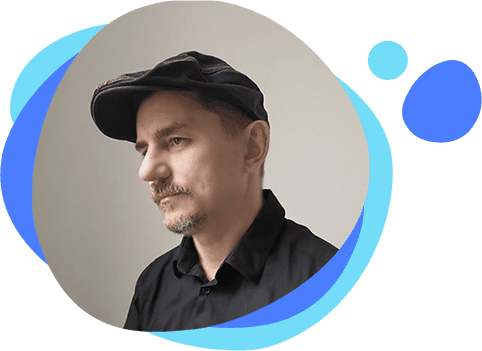
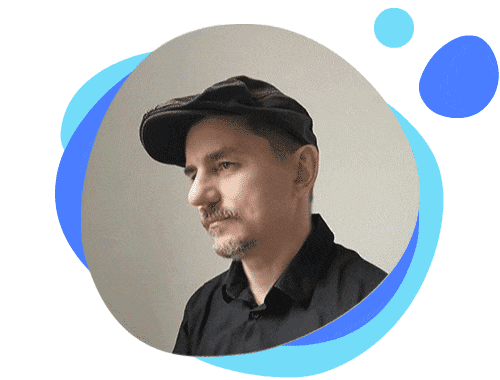
last fix with about gif - change png to gif when the last is loaded. Fixed a few styles

diff --git a/wp-content/themes/z-design/js/fixes.js b/wp-content/themes/z-design/js/fixes.js
@@ -1,8 +1,6 @@
 var aboutMenuItem = document.querySelector('[data-modal="about"]');
 var img = document.querySelector('#change_to_gif_js');
 var imgAboutTemplate = document.querySelector('#change_to_gif_js_about_template');
-var gifLoaderModal = document.querySelector('.gif_block__loader--modal')
-var gifLoader = document.querySelector('.gif_block__loader--template')
 
 var gifSource = '/wp-content/themes/z-design/img/about/about.gif';
 
@@ -12,7 +10,6 @@ if (imgAboutTemplate) {
         var gif = new Image();
         gif.src = gifSource;
         gif.onload = function() {
-            gifLoader.style.display = 'none';
             imgAboutTemplate.style.display = 'none';
             block.insertAdjacentElement('beforeend', gif)
         }
@@ -24,7 +21,6 @@ if (imgAboutTemplate) {
         var gif = new Image();
         gif.src = gifSource;
         gif.onload = function() {
-            gifLoaderModal.style.display = 'none';
             img.style.display = 'none';
             img.dataset.gif = true
             block.insertAdjacentElement('beforeend', gif)

diff --git a/wp-content/themes/z-design/rtl.css b/wp-content/themes/z-design/rtl.css
@@ -54,7 +54,7 @@ https://codex.wordpress.org/Right-to-Left_Language_Support
 
 @media screen and (max-width: 576px) {
 	.menu__link {
-		font-size: 1.5em;
+		font-size: 1.725em;
 	}
 }
 
@@ -79,7 +79,7 @@ https://codex.wordpress.org/Right-to-Left_Language_Support
 .about__buttons {
 	direction: rtl;    
 }
-.button__text {
+.about__buttons .button__text {
 	font-family: 'FB Reforma Medium';
 	font-size: 1.125em;
 }
@@ -93,6 +93,11 @@ https://codex.wordpress.org/Right-to-Left_Language_Support
 }
 .order_here a {
 	background: url(img/blog/order_here_he.png) center/contain no-repeat;
+}
+@media (max-width: 550px) {
+	.about__buttons .button {
+		padding: .75em .75em .75em 1em;
+	}
 }
 @media (max-width: 500px) {
 	.about__buttons .button__container {
@@ -146,7 +151,9 @@ https://codex.wordpress.org/Right-to-Left_Language_Support
 form.wpcf7-form {
     direction: rtl;
 }
-
+.contact__form button {
+	font-size: 1.65em;
+}
 .contact__form button span {
 	background: url(img/svg/form_arrow_he.svg) center/contain no-repeat;
 	right: auto;

diff --git a/wp-content/themes/z-design/style.css b/wp-content/themes/z-design/style.css
@@ -2057,7 +2057,8 @@ h3 {
     -webkit-box-align: center;
     align-items: center;
     margin: 0 .5rem .75rem;
-    position: relative
+    position: relative;
+    -webkit-tap-highlight-color: transparent;
 }
 
 .button:hover .button__arrow {
@@ -4873,7 +4874,7 @@ img[lazy=loading] {
         width: 95%
     }
     .menu__link {
-        font-size: 1.125em
+        font-size: 1.285em;
     }
     .nav_works__item {
         padding: .4em .6em;

diff --git a/wp-content/themes/z-design/header.php b/wp-content/themes/z-design/header.php
@@ -127,8 +127,7 @@
 
                     <div class="modal__content modal__content--about">
                         <div class="gif_block gif_block--modal">
-                            <img class="gif_block__loader gif_block__loader--modal" src="<?php bloginfo('template_directory') ?>/img/ajax-loader.gif" alt="">
-                            <img id="change_to_gif_js" src="<?php bloginfo('template_directory') ?>/img/about/about.png" class="about__image loading" alt="">
+                            <img id="change_to_gif_js" src="<?php bloginfo('template_directory') ?>/img/about/about.png" class="about__image" alt="">
                         </div>                        
                         <div class="about__content">
                             <?php echo get_post_field('post_content', 11); ?>

diff --git a/wp-content/themes/z-design/page-about.php b/wp-content/themes/z-design/page-about.php
@@ -13,8 +13,7 @@ $currentLang = wpm_get_language();
         </div>
         <div class="about__body">
             <div class="gif_block gif_block--template">
-                <img class="gif_block__loader gif_block__loader--template" src="<?php bloginfo('template_directory') ?>/img/ajax-loader.gif" alt="">
-                <img id="change_to_gif_js_about_template" src="<?php bloginfo('template_directory') ?>/img/about/about.png" class="about__image loading" alt="">
+                <img id="change_to_gif_js_about_template" src="<?php bloginfo('template_directory') ?>/img/about/about.png" class="about__image" alt="">
             </div>
             <div class="about__content">
                 <?php echo get_post_field('post_content', 11); ?>

diff --git a/wp-content/themes/z-design/functions.php b/wp-content/themes/z-design/functions.php
@@ -301,3 +301,17 @@ class MyWalker extends Walker_Nav_Menu
 
         }
 }
+
+add_filter( 'wpcf7_form_elements', 'imp_wpcf7_form_elements' );
+function imp_wpcf7_form_elements( $content ) {
+    $str_pos = strpos( $content, 'name="your-name"' );
+    $content = substr_replace( $content, ' autocomplete="off" ', $str_pos, 0 );
+
+    $str_pos = strpos( $content, 'name="your-phone"' );
+	$content = substr_replace( $content, ' autocomplete="off" ', $str_pos, 0 );
+	
+	$str_pos = strpos( $content, 'name="your-email"' );
+    $content = substr_replace( $content, ' autocomplete="off" ', $str_pos, 0 );
+
+    return $content;
+}
